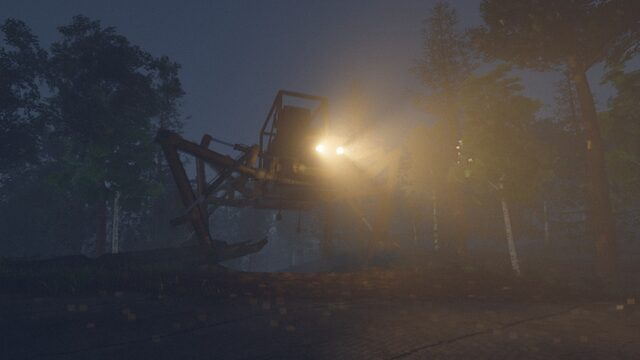
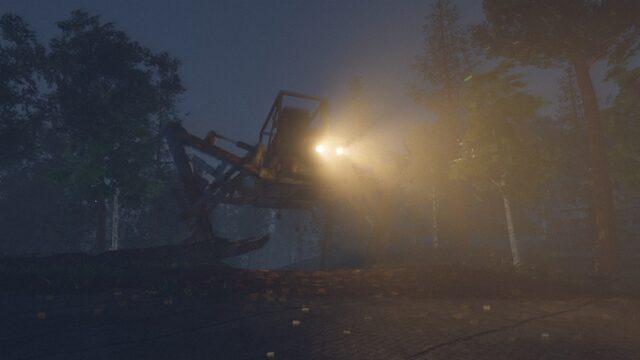
machine-wilds: samples and poster from the film's frames; hub text
Claude-Session: https://claude.ai/code/session_01LWivNf8Y6UtuVJbT9XD7sv

diff --git a/docs/index.html b/docs/index.html
@@ -744,10 +744,10 @@
   </div>
 </article>
 <article class="card" id="machine-wilds" data-id="machine-wilds">
-  <a class="img" href="machine-wilds/" tabindex="-1"><img src="machine-wilds/poster.jpg" alt="machine-wilds로 만든 「쇠울림 골짜기」의 장면 네 개: 안개 낀 숲에서 전나무 사이로 탐조등 빛기둥을 던지는 다리 넷의 긴 목 기계, 호박색 두 눈의 빛이 안개를 뚫는 여섯 다리 운반기, 끊어진 고가도로 끝 방호벽 앞을 눈높이로 지나가는 흰 기계의 등, 어두운 숲 너머로 창에 불을 켠 채 걸어가는 거대한 여덟 다리 중계소" width="1200" height="675"></a>
+  <a class="img" href="machine-wilds/" tabindex="-1"><img src="machine-wilds/poster.jpg" alt="machine-wilds로 만든 「쇠울림 골짜기」의 장면 네 개: 끊어진 고가도로 방호벽 너머 안개 속에서 탐조등 빛기둥을 던지는 긴 목 기계, 호박색 두 눈의 빛이 안개를 뚫는 여섯 다리 운반기, 새벽 안개 속 녹물이 흐른 흰 외장의 긴 다리, 밤하늘에서 저마다 빛기둥을 내리는 기계 새 다섯" width="1200" height="675"></a>
   <div class="body">
     <h3><a href="machine-wilds/">machine-wilds</a></h3>
-    <p class="tagline">장소 하나를 주면(숲 골짜기 · 물에 잠긴 채석장 · 버려진 항구), 폐허가 숲에 덮인 땅을 거대한 보행 기계들이 안개 속에서 걸어 다니는 3D 세계를 브라우저에서 걸을 수 있게 만듭니다. scanned-realm 엔진(Poly Haven CC0 스캔 재질 · 모델 · 식생)에 높낮이가 있는 지형, 코드로 부품 하나하나 만드는 기계(관절마다 드럼 · 포크 · 핀, 고정점을 스크립트가 찾는 유압 실린더), 지형 위에서 계획하는 걸음을 더했습니다. 발은 내려놓는 자리의 실제 높이와 경사에 닿고, 디딘 발은 움직이지 않으며, 다리마다 자기 땅에 맞춰 따로 굽고, 몸통의 높이와 기울기는 디딘 발에서 나옵니다. 기계는 멈춰 서서 숨 쉬고, 출발 전에 힘을 모으고, 가까이 가면 머리를 돌리며, 등불은 안개 속 빛기둥이 됩니다. 기계가 다니는 길은 땅에 닳아 있고 발자국이 눌려 있습니다. 렌더하기 전에 브라우저 없이 몇 초 만에 다리 도달 · 역관절 · 발 미끄러짐 · 실린더 · 몸통 가속 · 대기 동작을 숫자로 검사하고, 종류마다 캐스트 시트를 냅니다. 주제마다 장소와 기계를 새로 설계합니다.</p>
+    <p class="tagline">장소 하나를 주면(숲 골짜기 · 물에 잠긴 채석장 · 버려진 항구), 폐허가 숲에 덮인 땅을 거대한 보행 기계들이 안개 속에서 걸어 다니는 3D 세계를 브라우저에서 걸을 수 있게 만듭니다. scanned-realm 엔진(Poly Haven CC0 스캔 재질 · 모델 · 식생)에 높낮이가 있는 지형, 코드로 부품 하나하나 만드는 기계(관절마다 드럼 · 포크 · 핀, 고정점을 스크립트가 찾는 유압 실린더), 지형 위에서 계획하는 걸음을 더했습니다. 발은 내려놓는 자리의 실제 높이와 경사에 닿고, 디딘 발은 움직이지 않으며, 다리마다 자기 땅에 맞춰 따로 굽고, 몸통의 높이와 기울기는 디딘 발에서 나옵니다. 기계는 녹슬고 이끼 낀 산업용 유압에 일부만 흰 세라믹 외장을 둘렀고 배관 · 호스 · 리벳 · 점검 해치 · 사다리 같은 부속품이 붙어 있으며, 날개를 치고 활공하는 기계 새도 만듭니다. 기계는 멈춰 서서 숨 쉬고, 출발 전에 힘을 모으고, 가까이 가면 머리를 돌리며, 등불은 안개 속 빛기둥이 됩니다. 기계가 다니는 길은 땅에 닳아 있고 발자국이 눌려 있습니다. 렌더하기 전에 브라우저 없이 몇 초 만에 다리 도달 · 역관절 · 발 미끄러짐 · 실린더 · 몸통 가속 · 대기 동작을 숫자로 검사하고, 종류마다 캐스트 시트를 냅니다. 주제마다 장소와 기계를 새로 설계합니다.</p>
     <p class="stats">예제 「쇠울림 골짜기」 · 640 m 골짜기 · 기계 네 종류 열한 대(걷는 것 여섯, 나는 것 다섯) + 잔해 · 스캔 재질 11종 · 모델 19종 · 스타터 「Lantern Quarry」 · 스캔 101 MB(예제) · 28 MB(스타터)는 저장소 밖, Poly Haven 서버에서 도착</p>
     <ul class="tags"><li>WebGL 2 디퍼드 · 스캔 에셋</li><li>지형에 맞춘 다리 IK</li><li>부품 하나하나 코드로 · 유압 실린더</li><li>안개 속 빛기둥</li><li>브라우저 없이 몸 검사</li><li>날아다니는 기계 새</li><li>걸어 다니는 세계</li></ul>
     <p class="from">만든 출처: <a href="https://polyhaven.com" target="_blank" rel="noopener">Poly Haven — 스캔 재질과 모델의 출처 (CC0, 저장소에는 넣지 않고 장소마다 받아 옴). 스킬 자체는 이 레포의 scanned-realm · walking-colossus · machine-build-reel을 바탕으로 만듦</a></p>
